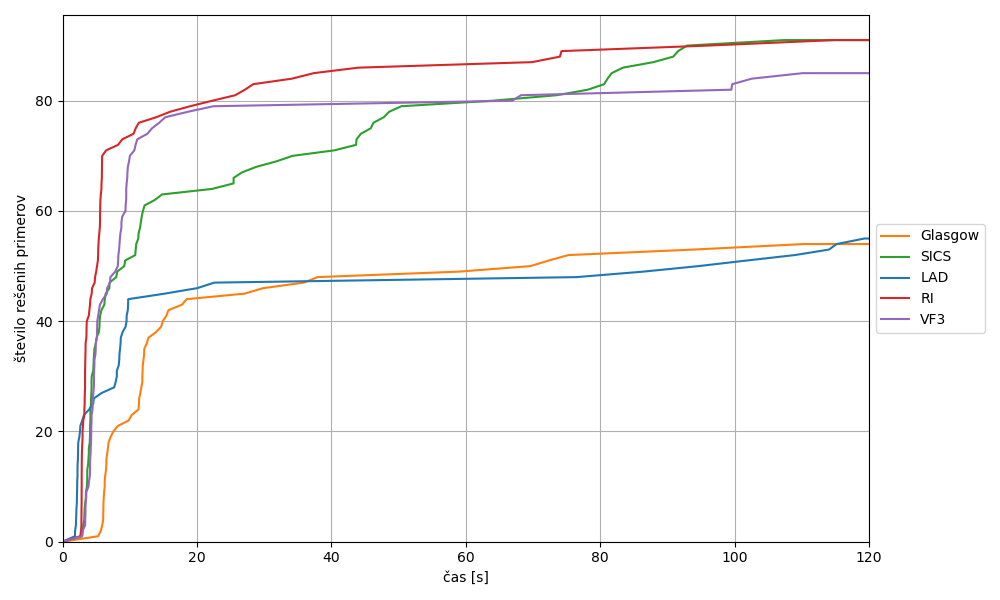
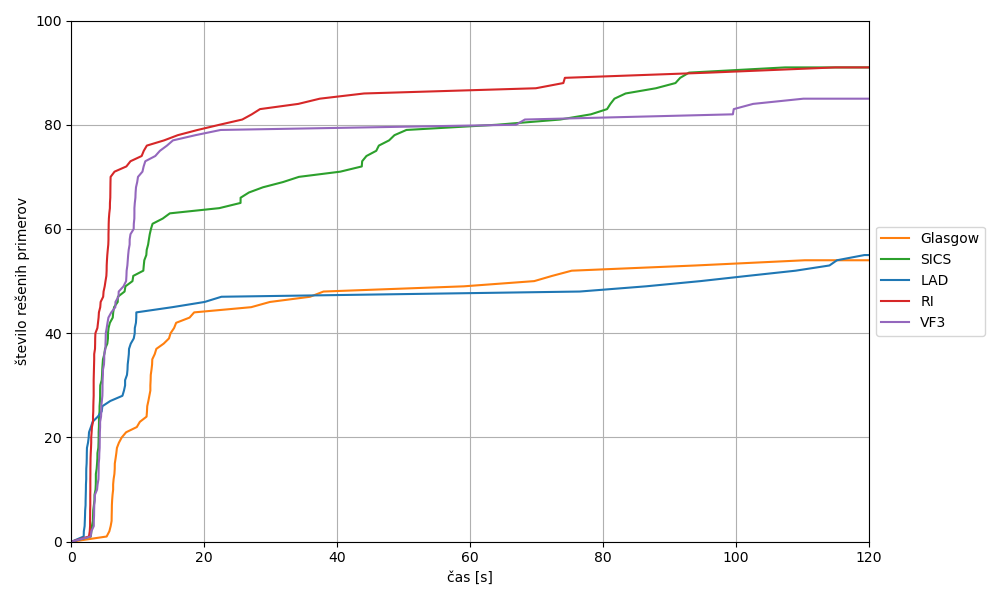
Manjši popravki na grafih.

diff --git a/graph.py b/graph.py
@@ -2,7 +2,21 @@ import os
 import pandas as pd
 import matplotlib.pyplot as plt
 
-folder_path = "/home/jana/Documents/DIPLOMA/AAA/Analiza-resevalnikov-za-podgrafni-izomorfizem/real_graphs/summaries"
+folder_path = "/home/jana/Documents/DIPLOMA/AAA/Analiza-resevalnikov-za-podgrafni-izomorfizem/random_graphs/summariesRandom"
+
+# color mapping for solvers
+SOLVER_COLORS = {
+    "Glasgow": "tab:orange",
+    "LAD": "tab:blue",
+    "RI": "tab:red",
+    "VF3": "tab:purple",
+    "SICS": "tab:green"
+}
+
+SOLVER_ORDER = ["Glasgow", "SICS", "LAD", "RI", "VF3"]
+def get_solver_color(solver):
+    # default to gray if not found
+    return SOLVER_COLORS.get(solver, "gray")
 
 def clean_and_sort_data(df, column_to_sort):
     df[column_to_sort] = pd.to_numeric(df[column_to_sort], errors='coerce')
@@ -24,17 +38,20 @@ def load_real_summary_files(folder_path, graph_type):
 
 def plot_cumulative_real(data, time_limit=120, save_path=None):
     plt.figure(figsize=(10, 6))
-    for solver, df in data.items():
-        times = df["time(s)"].dropna().sort_values()
-        solved = (times <= time_limit).cumsum()
-        x = [0] + list(times[times <= time_limit])
-        y = [0] + list(range(1, len(x)))
-        if len(x) > 0 and x[-1] < time_limit:
-            x.append(time_limit)
-            y.append(y[-1])
-        plt.plot(x, y, label=solver)
+    for solver in SOLVER_ORDER:
+        if solver in data:
+            df = data[solver]
+            times = df["time(s)"].dropna().sort_values()
+            solved = (times <= time_limit).cumsum()
+            x = [0] + list(times[times <= time_limit])
+            y = [0] + list(range(1, len(x)))
+            if len(x) > 0 and x[-1] < time_limit:
+                x.append(time_limit)
+                y.append(y[-1])
+            plt.plot(x, y, label=solver, color=get_solver_color(solver))
     plt.xlim(0, time_limit)
-    plt.ylim(0, None)
+    plt.ylim(0, 100)  
+    plt.yticks(range(0, 101, 20))
     plt.xlabel("čas [s]")
     plt.ylabel("število rešenih primerov")
     plt.legend(loc="center left", bbox_to_anchor=(1, 0.5))
@@ -46,15 +63,16 @@ def plot_cumulative_real(data, time_limit=120, save_path=None):
 
 def plot_memory_time_real(data, time_limit=120, save_path=None):
     plt.figure(figsize=(10, 6))
-    colors = ['tab:blue', 'tab:orange', 'tab:green', 'tab:red', 'tab:purple']
     max_mem = 0
-    for idx, (solver, df) in enumerate(data.items()):
-        times = pd.to_numeric(df["time(s)"], errors='coerce')
-        mems = pd.to_numeric(df["alloc(B)"], errors='coerce') / (1024 * 1024)  # MB
-        mask = (~times.isna()) & (~mems.isna()) & (times <= time_limit)
-        plt.scatter(times[mask], mems[mask], color=colors[idx % len(colors)], label=solver, s=40)
-        if mems[mask].max(skipna=True) > max_mem:
-            max_mem = mems[mask].max(skipna=True)
+    for solver in SOLVER_ORDER:
+        if solver in data:
+            df = data[solver]
+            times = pd.to_numeric(df["time(s)"], errors='coerce')
+            mems = pd.to_numeric(df["alloc(B)"], errors='coerce') / (1024 * 1024)  # MB
+            mask = (~times.isna()) & (~mems.isna()) & (times <= time_limit)
+            plt.scatter(times[mask], mems[mask], color=get_solver_color(solver), label=solver, s=40)
+            if mems[mask].max(skipna=True) > max_mem:
+                max_mem = mems[mask].max(skipna=True)
     plt.xlim(0, time_limit)
     plt.ylim(0, max_mem * 1.05 if max_mem > 0 else 1)
     plt.xlabel("čas [s]")
@@ -67,6 +85,7 @@ def plot_memory_time_real(data, time_limit=120, save_path=None):
     plt.show()
 
 # GENERATED
+
 def load_and_process_summary_files(folder_path, graph_type):
     data = {}
     for file_name in os.listdir(folder_path):
@@ -101,25 +120,28 @@ for graph_type in real_graph_types:
     plot_cumulative_real(summary_data, time_limit=120, save_path=f"{graph_type}.png")
     plot_memory_time_real(summary_data, time_limit=120, save_path=f"{graph_type}_memory.png")
 
+
 def plot_cumulative_graph(data, column_to_sort, graph_type, save_path=None):
     plt.figure(figsize=(10, 6))
-    for solver, df in data.items():
-        df = clean_and_sort_data(df, column_to_sort)
-        total_instances = len(df)
-        if total_instances == 0:
-            continue
-        valid_data = df[column_to_sort].dropna()
-        solved_counts = valid_data.rank(method='min', pct=False)
-        x = list(valid_data)
-        y = list(solved_counts)
-        x = [0] + x
-        y = [0] + y
-        if x[-1] < 60:
-            x.append(60)
-            y.append(y[-1])
-        elif x[-1] > 60:
-            x[-1] = 60
-        plt.plot(x, y, linestyle='-', label=solver)
+    for solver in SOLVER_ORDER:
+        if solver in data:
+            df = data[solver]
+            df = clean_and_sort_data(df, column_to_sort)
+            total_instances = len(df)
+            if total_instances == 0:
+                continue
+            valid_data = df[column_to_sort].dropna()
+            solved_counts = valid_data.rank(method='min', pct=False)
+            x = list(valid_data)
+            y = list(solved_counts)
+            x = [0] + x
+            y = [0] + y
+            if x[-1] < 60:
+                x.append(60)
+                y.append(y[-1])
+            elif x[-1] > 60:
+                x[-1] = 60
+            plt.plot(x, y, linestyle='-', label=solver, color=get_solver_color(solver))
     plt.xlim(0, 60)
     plt.ylim(0, 100)
     plt.xlabel("čas [s]")
@@ -142,19 +164,20 @@ for graph_type in graph_types:
 
 def plot_memory_time(data, time_column, memory_column, graph_type, save_path=None):
     plt.figure(figsize=(10, 6))
-    colors = ['tab:blue', 'tab:orange', 'tab:green', 'tab:red', 'tab:purple']
     max_mem = 0
-    for idx, (solver, df) in enumerate(data.items()):
-        times = pd.to_numeric(df[time_column], errors='coerce')
-        mems = pd.to_numeric(df[memory_column], errors='coerce') / (1024 * 1024)  # Convert to MB
-        mask = (~times.isna()) & (~mems.isna()) & (times <= 60)
-        plt.scatter(times[mask], mems[mask], color=colors[idx % len(colors)], label=solver, s=40)
-        if mems[mask].max(skipna=True) > max_mem:
-            max_mem = mems[mask].max(skipna=True)
+    for solver in SOLVER_ORDER:
+        if solver in data:
+            df = data[solver]
+            times = pd.to_numeric(df[time_column], errors='coerce')
+            mems = pd.to_numeric(df[memory_column], errors='coerce') / (1024 * 1024)  # Convert to MB
+            mask = (~times.isna()) & (~mems.isna()) & (times <= 60)
+            plt.scatter(times[mask], mems[mask], color=get_solver_color(solver), label=solver, s=40)
+            if mems[mask].max(skipna=True) > max_mem:
+                max_mem = mems[mask].max(skipna=True)
     plt.xlim(0, 60)
     plt.ylim(0, max_mem * 1.05 if max_mem > 0 else 1)
     plt.xlabel("čas [s]")
-    plt.ylabel("poraba pomnilnika [MB]")  # Update label to MB
+    plt.ylabel("poraba pomnilnika [MB]") 
     plt.legend(loc="center left", bbox_to_anchor=(1, 0.5))
     plt.grid()
     plt.tight_layout()
@@ -170,3 +193,77 @@ for graph_type in graph_types:
         save_name = f"{graph_type}{time_column.split('_')[0]}_memory.png"
         plot_memory_time(summary_data, time_column, memory_column, graph_type, save_path=save_name)
 
+# RANDOM
+def load_summary_files_random(folder_path, graph_type):
+    data = {}
+    for file_name in os.listdir(folder_path):
+        if file_name.endswith("_summary.txt") and graph_type in file_name:
+            file_path = os.path.join(folder_path, file_name)
+            df = pd.read_csv(file_path, sep="|", skiprows=2, names=["graph", "time(s)", "alloc(B)"])
+            df["time(s)"] = pd.to_numeric(df["time(s)"].str.strip(), errors='coerce')
+            df["alloc(B)"] = pd.to_numeric(df["alloc(B)"].str.strip(), errors='coerce')
+            solver_name = file_name.split("_")[0]
+            data[solver_name] = df
+    return data
+
+def plot_cumulative_random(data, time_limit=120, save_path=None):
+    plt.figure(figsize=(10, 6))
+    for solver in SOLVER_ORDER:
+        if solver in data:
+            df = data[solver]
+            times = df["time(s)"].dropna().sort_values()
+            num_instances = 100
+            x = [0] + list(times[times <= time_limit])
+            y = [0] + list(range(1, len(x)))
+            if len(y) < num_instances + 1:
+                if len(x) == 0:
+                    last_x = time_limit
+                else:
+                    last_x = x[-1] if x[-1] < time_limit else time_limit
+                x += [last_x] * (num_instances + 1 - len(x))
+                y += [y[-1]] * (num_instances + 1 - len(y))
+            else:
+                x = x[:num_instances + 1]
+                y = y[:num_instances + 1]
+            if x[-1] < time_limit:
+                x.append(time_limit)
+                y.append(y[-1])
+            plt.plot(x, y, label=solver, color=get_solver_color(solver))
+    plt.xlim(0, time_limit)
+    plt.ylim(0, 100)  
+    plt.yticks(range(0, 101, 20))
+    plt.xlabel("čas [s]")
+    plt.ylabel("število rešenih primerov")
+    plt.legend(loc="center left", bbox_to_anchor=(1, 0.5))
+    plt.grid()
+    plt.tight_layout()
+    if save_path:
+        plt.savefig(save_path)
+    plt.show()
+
+def plot_memory_time_random(data, time_limit=120, save_path=None):
+    plt.figure(figsize=(10, 6))
+    max_mem = 0
+    for solver in SOLVER_ORDER:
+        if solver in data:
+            df = data[solver]
+            times = pd.to_numeric(df["time(s)"], errors='coerce')
+            mems = pd.to_numeric(df["alloc(B)"], errors='coerce') / (1024 * 1024)  # MB
+            mask = (~times.isna()) & (~mems.isna()) & (times <= time_limit)
+            plt.scatter(times[mask], mems[mask], color=get_solver_color(solver), label=solver, s=40)
+            if mems[mask].max(skipna=True) > max_mem:
+                max_mem = mems[mask].max(skipna=True)
+    plt.xlim(0, time_limit)
+    plt.ylim(0, max_mem * 1.05 if max_mem > 0 else 1)
+    plt.xlabel("čas [s]")
+    plt.ylabel("poraba pomnilnika [MB]")
+    plt.legend(loc="center left", bbox_to_anchor=(1, 0.5))
+    plt.grid()
+    plt.tight_layout()
+    if save_path:
+        plt.savefig(save_path)
+    plt.show()
+
+random_data = load_summary_files_random(folder_path, "random")
+plot_cumulative_random(random_data, time_limit=120, save_path="random_cumulative.png")
+plot_memory_time_random(random_data, time_limit=120, save_path="random_memory.png")

diff --git a/results.py b/results.py
@@ -2,10 +2,10 @@ import os
 import re
 from collections import defaultdict
 
-RESULTS_DIR = "/home/jana/Documents/DIPLOMA/AAA/Analiza-resevalnikov-za-podgrafni-izomorfizem/results pentagon"
-OUTPUT_DIR  = "summariesRealPentagon"
+RESULTS_DIR = "/home/jana/Documents/DIPLOMA/AAA/Analiza-resevalnikov-za-podgrafni-izomorfizem/random_graphs/results 500-50"
+OUTPUT_DIR  = "summariesRandom"
 
-FNAME_RE       = re.compile(r"^(.+?)_(tree|quatrilateral|pentagon|er|scale_free|real)_results\.txt$")
+FNAME_RE       = re.compile(r"^(.+?)_(tree|quatrilateral|pentagon|er|scale_free|real|random)_results\.txt$")
 TIME_RE        = re.compile(r"Done in ([0-9.]+)s")
 TIMEOUT_RE     = re.compile(r"TIMED OUT after [0-9.]+s\s+\(elapsed=([0-9.]+)s\)")
 TOTAL_ALLOC_RE = re.compile(r"total heap usage: [0-9,]+ allocs, [0-9,]+ frees, ([0-9,]+) bytes allocated")
@@ -46,12 +46,10 @@ def main():
         if not m:
             continue
         solver, family = m.group(1), m.group(2)
-        if family != "real":
-            continue
         parsed = parse_real_log(os.path.join(RESULTS_DIR, fn))
-        out_path = os.path.join(OUTPUT_DIR, f"{solver}_real_summary.txt")
+        out_path = os.path.join(OUTPUT_DIR, f"{solver}_{family}_summary.txt")
         with open(out_path, "w") as out:
-            out.write(f"=== Summary for solver: {solver} (real graphs) ===\n\n")
+            out.write(f"=== Summary for solver: {solver} ({family} graphs) ===\n\n")
             hdr = ["graph", "time(s)", "alloc(B)"]
             out.write(" | ".join(hdr) + "\n")
             for graph in sorted(parsed.keys()):
@@ -59,7 +57,7 @@ def main():
                 t = "NaN" if rec["timeout"] or rec["time"] is None else f"{rec['time']:.3f}"
                 m = str(rec["mem"]) if rec["mem"] is not None else "NaN"
                 out.write(f"{graph} | {t} | {m}\n")
-        print(f"Wrote summary for {solver} → {out_path}")
-
+        print(f"Wrote summary for {solver} ({family}) → {out_path}")
+        
 if __name__ == "__main__":
     main()
